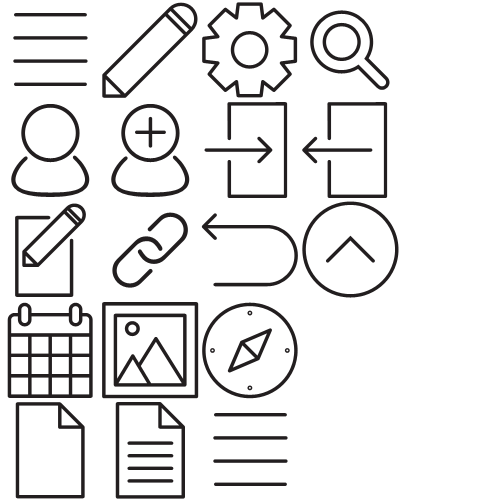
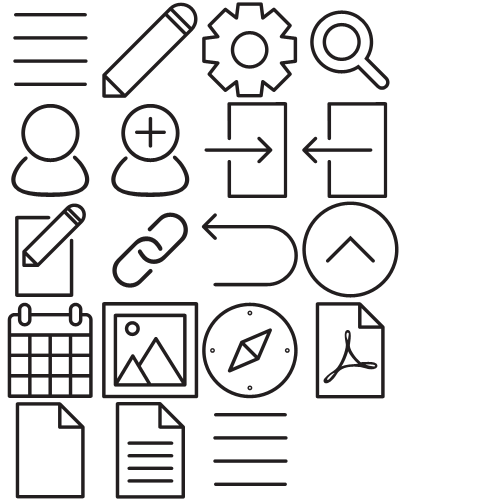
support external plugins with actions
also added pdf icon for Issue #1

Changed region(s): [[0.63, 0.6, 0.78, 0.81]]

diff --git a/css/design.less b/css/design.less
@@ -155,7 +155,7 @@
     li a:hover {
         background-color: @ini_background_alt;
     }
-    li i {
+    li a.action:before {
         display: inline-block;
         width: 24px;
         height: 24px;
@@ -163,69 +163,75 @@
         background: transparent url('images/ipari-silpleline.png') no-repeat;
         background-size: 120px 120px;
         vertical-align: -40%;
+        content: '';
     }
     div.user {
         padding: 6px 12px;
     }
 
-    a.action.admin i {
+    a.action.admin:before {
         background-position: -48px 0;
     }
 
-    a.action.profile i {
+    a.action.profile:before {
         background-position: 0px -24px;
     }
 
-    a.action.login i {
+    a.action.login:before {
         background-position: -48px -24px;
     }
 
-    a.action.logout i {
+    a.action.logout:before {
         background-position: -72px -24px;
     }
 
-    a.action.register i {
+    a.action.register:before {
         background-position: -24px -24px;
     }
 
-    a.action.create i {
+    a.action.create:before {
         background-position: 0 -48px;
     }
 
-    a.action.show i {
+    a.action.show:before {
         background-position: -24px -96px;
     }
 
-    a.action.source i {
+    a.action.source:before {
         background-position: 0 -96px;
     }
 
-    a.action.edit i {
+    a.action.edit:before {
         background-position: -24px 0;
     }
 
-    a.action.revs i {
+    a.action.revs:before {
         background-position: -48px -48px;
     }
 
-    a.action.backlink i {
+    a.action.backlink:before {
         background-position: -24px -48px;
     }
 
-    a.action.top i {
+    a.action.top:before {
         background-position: -72px -48px;
     }
 
-    a.action.recent i {
+    a.action.recent:before {
         background-position: 0 -72px;
     }
 
-    a.action.media i {
+    a.action.media:before {
         background-position: -24px -72px;
     }
 
-    a.action.index i {
+    a.action.index:before {
         background-position: -48px -72px;
+    }
+
+    // icons for plugins
+    a.action.plugin_export_pdf:before {
+        background-position: -72px -72px;
     }
 }
 #to_top {

diff --git a/main.php b/main.php
@@ -65,7 +65,7 @@ $showSidebar = page_findnearest($conf['sidebar']);
                 <div id="dokuwiki__pagetools">
                     <h3><?php echo $lang['page_tools'] ?></h3>
                     <ul>
-                        <?php tpl_toolsevent('pagetools', array(
+                        <?php white_toolsevent('pagetools', array(
                             'edit'      => tpl_action('edit', 1, 'li', 1, '<i></i>'),
                             'revisions' => tpl_action('revisions', 1, 'li', 1, '<i></i>'),
                             'backlink'  => tpl_action('backlink', 1, 'li', 1, '<i></i>'),
@@ -79,7 +79,7 @@ $showSidebar = page_findnearest($conf['sidebar']);
                 <div id="dokuwiki__sitetools">
                     <h3><?php echo $lang['site_tools'] ?></h3>
                     <ul>
-                        <?php tpl_toolsevent('sitetools', array(
+                        <?php white_toolsevent('sitetools', array(
                             'recent'    => tpl_action('recent', 1, 'li', 1, '<i></i>'),
                             'media'     => tpl_action('media', 1, 'li', 1, '<i></i>'),
                             'index'     => tpl_action('index', 1, 'li', 1, '<i></i>'),
@@ -92,7 +92,7 @@ $showSidebar = page_findnearest($conf['sidebar']);
                 <div id="dokuwiki__usertools">
                     <h3><?php echo $lang['user_tools'] ?></h3>
                     <ul>
-                        <?php tpl_toolsevent('usertools', array(
+                        <?php white_toolsevent('usertools', array(
                             'admin'     => tpl_action('admin', 1, 'li', 1, '<i></i>'),
                             'profile'   => tpl_action('profile', 1, 'li', 1, '<i></i>'),
                             'register'  => tpl_action('register', 1, 'li', 1, '<i></i>'),
@@ -144,7 +144,7 @@ $showSidebar = page_findnearest($conf['sidebar']);
 
             <!-- ********** FOOTER ********** -->
             <div id="dokuwiki__footer">
-                <div class="doc"><?php ipari_pageinfo() ?></div>
+                <div class="doc"><?php white_pageinfo() ?></div>
                 <?php tpl_license('badge', false, false) ?>
             </div><!-- /footer -->
 

diff --git a/tpl_functions.php b/tpl_functions.php
@@ -14,23 +14,27 @@ if (!defined('DOKU_INC')) die();
 /**
  * copied to core (available since Detritus)
  */
-if (!function_exists('tpl_toolsevent')) {
-    function tpl_toolsevent($toolsname, $items, $view='main') {
-        $data = array(
-            'view'  => $view,
-            'items' => $items
-        );
+function white_toolsevent($toolsname, $items, $view='main') {
+    $data = array(
+        'view'  => $view,
+        'items' => $items
+    );
 
-        $hook = 'TEMPLATE_'.strtoupper($toolsname).'_DISPLAY';
-        $evt = new Doku_Event($hook, $data);
-        if($evt->advise_before()){
-            foreach($evt->data['items'] as $k => $html) echo $html;
+    $hook = 'TEMPLATE_'.strtoupper($toolsname).'_DISPLAY';
+    $evt = new Doku_Event($hook, $data);
+    if($evt->advise_before()){
+        $actions = array('export_pdf');
+        foreach($evt->data['items'] as $k => $html) {
+            if (in_array($k, $actions)) {
+                $html = str_replace(' '.$k, ' plugin_'.$k, $html);
+            }
+            echo $html;
         }
-        $evt->advise_after();
     }
+    $evt->advise_after();
 }
 
-function ipari_breadcrumbs() {
+function white_breadcrumbs() {
     global $lang;
     global $conf;
 
@@ -58,7 +62,7 @@ function ipari_breadcrumbs() {
     return true;
 }
 
-function ipari_pageinfo($ret = false) {
+function white_pageinfo($ret = false) {
     global $conf;
     global $lang;
     global $INFO;
